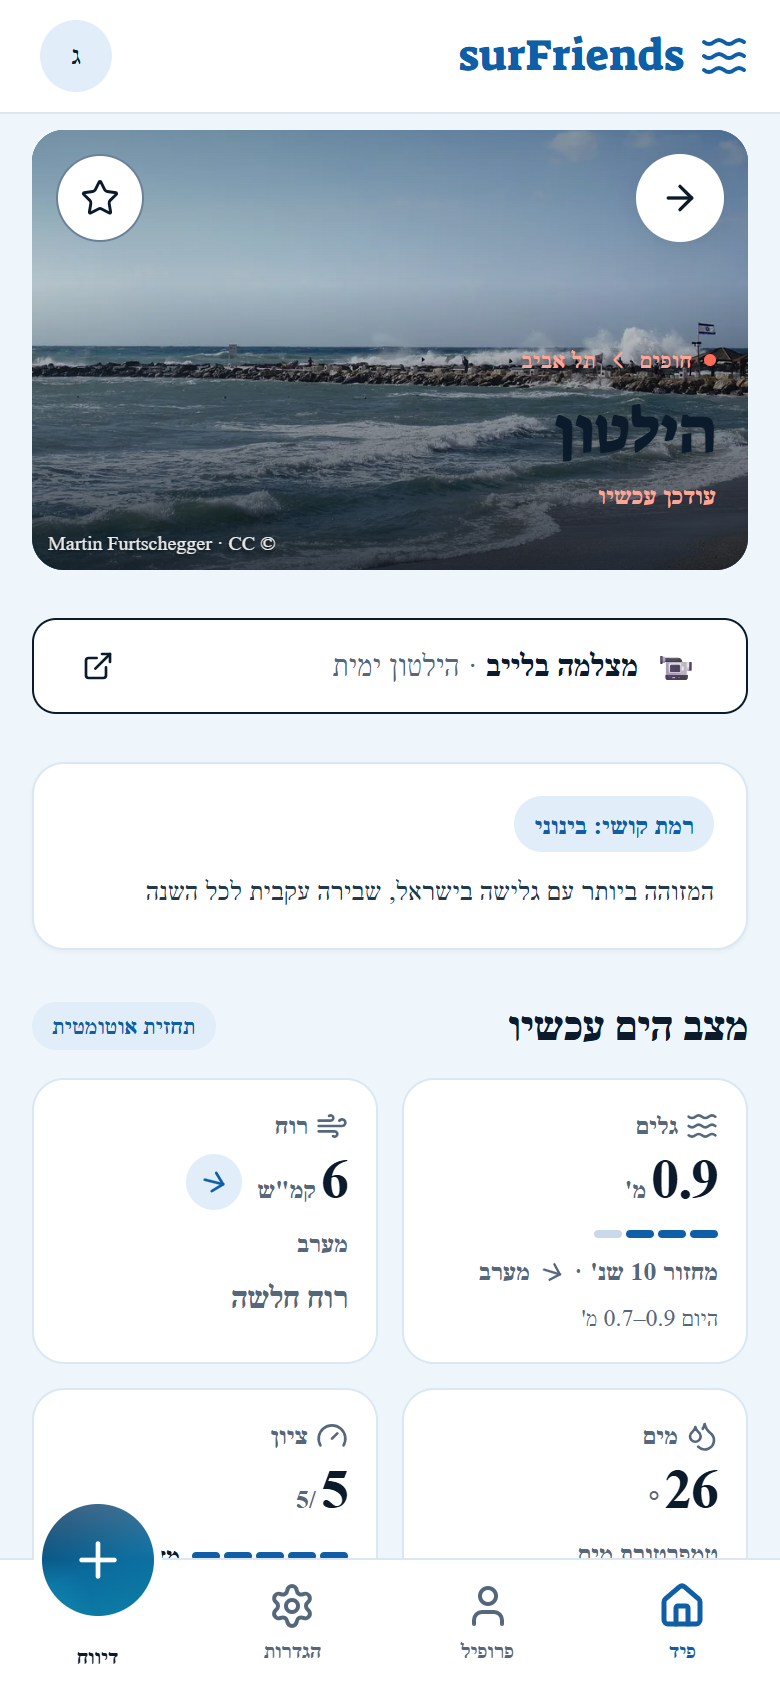
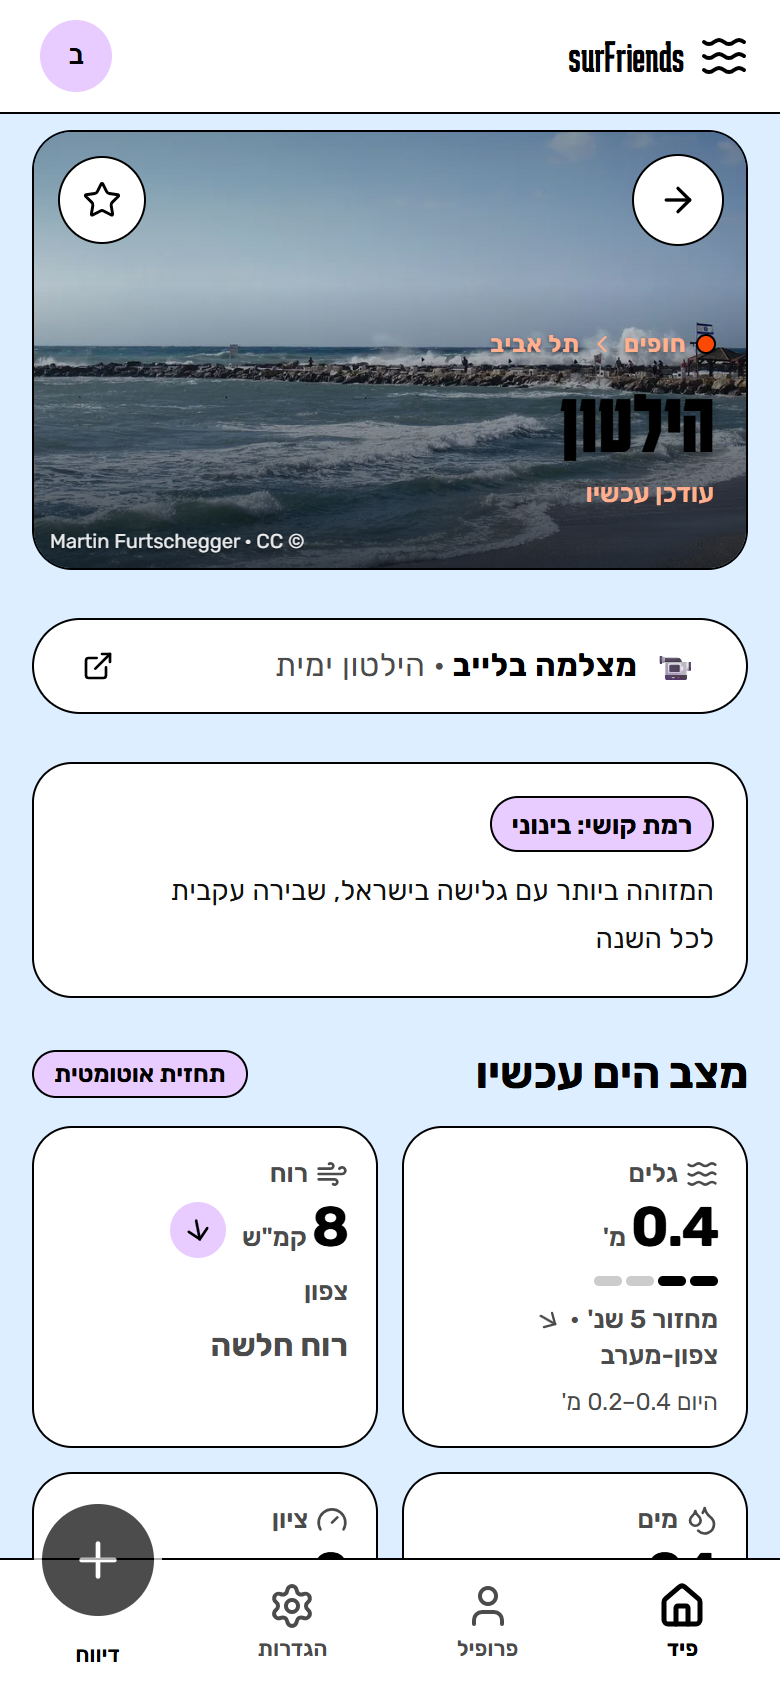
docs: README screenshots for the Slush design

diff --git a/README.md b/README.md
@@ -8,9 +8,9 @@ A real-time surf community for Israel's coast. Surfers post short reports from t
 
 ## Screenshots
 
-| Sign-up | Feed | Beach | New report |
+| Sign-up | Feed | Beach | Night mode |
 | :---: | :---: | :---: | :---: |
-| <img src="docs/screenshots/onboarding.png" width="200" alt="Sign-up: pick a name and surf level"> | <img src="docs/screenshots/feed.png" width="200" alt="Feed with greeting, hero card and beach slider"> | <img src="docs/screenshots/beach.png" width="200" alt="Beach page with live cam link and forecast"> | <img src="docs/screenshots/new-report.png" width="200" alt="New report form"> |
+| <img src="docs/screenshots/onboarding.png" width="200" alt="Sign-up: pick a name and surf level"> | <img src="docs/screenshots/feed.png" width="200" alt="Feed with greeting, live card and beach slider"> | <img src="docs/screenshots/beach.png" width="200" alt="Beach page with live cam link and forecast"> | <img src="docs/screenshots/night.png" width="200" alt="Night screen: closed until first light"> |
 
 ## Features
 
@@ -30,7 +30,7 @@ A real-time surf community for Israel's coast. Surfers post short reports from t
 | Layer | Technology |
 | --- | --- |
 | Framework | Next.js 15.5 (App Router, Server Actions, Route Handlers), React 19, TypeScript |
-| Styling | Tailwind CSS v4, shadcn/ui (Base UI), lucide-react |
+| Styling | Tailwind CSS v4, shadcn/ui (Base UI), lucide-react; sticker-book design (pastel paper, black outlines, pill buttons) with Karantina + Rubik |
 | Backend | Supabase: Postgres + RLS, anonymous Auth, Storage, Realtime, `pg_cron` |
 | Forecast | Open-Meteo Marine + Weather APIs (no key) |
 | Push | Web Push (VAPID) via `web-push` |
